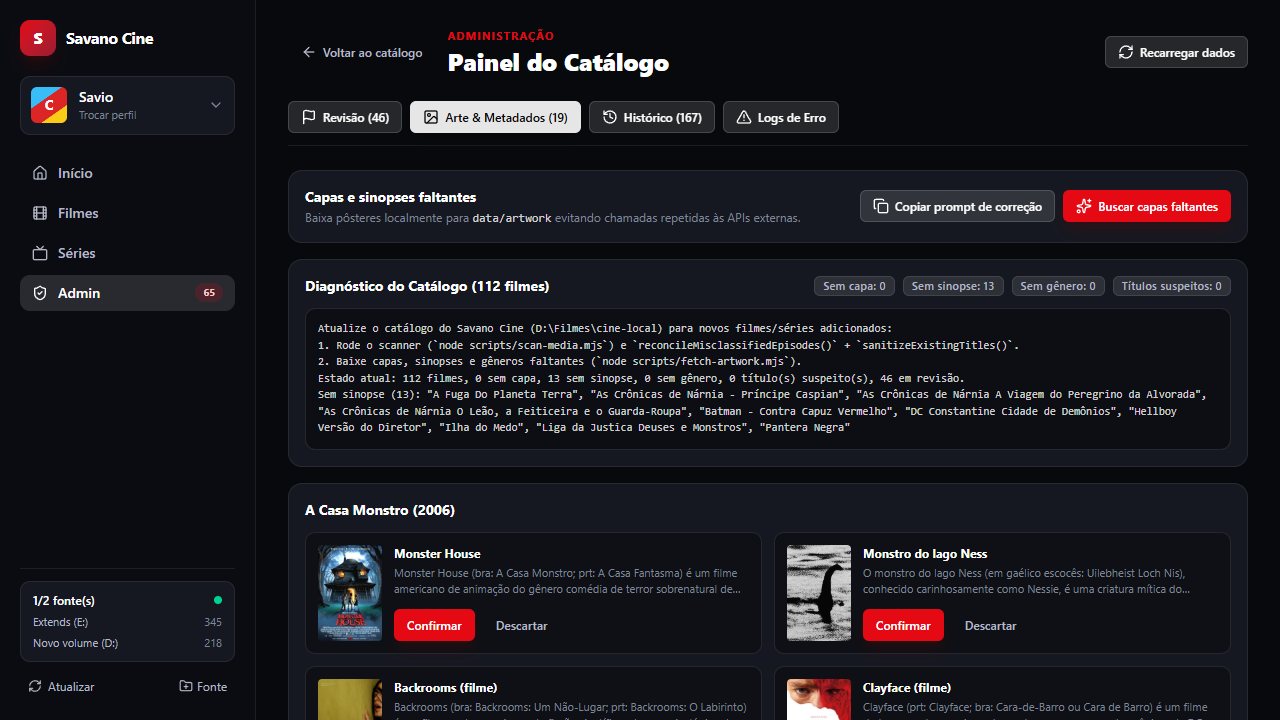
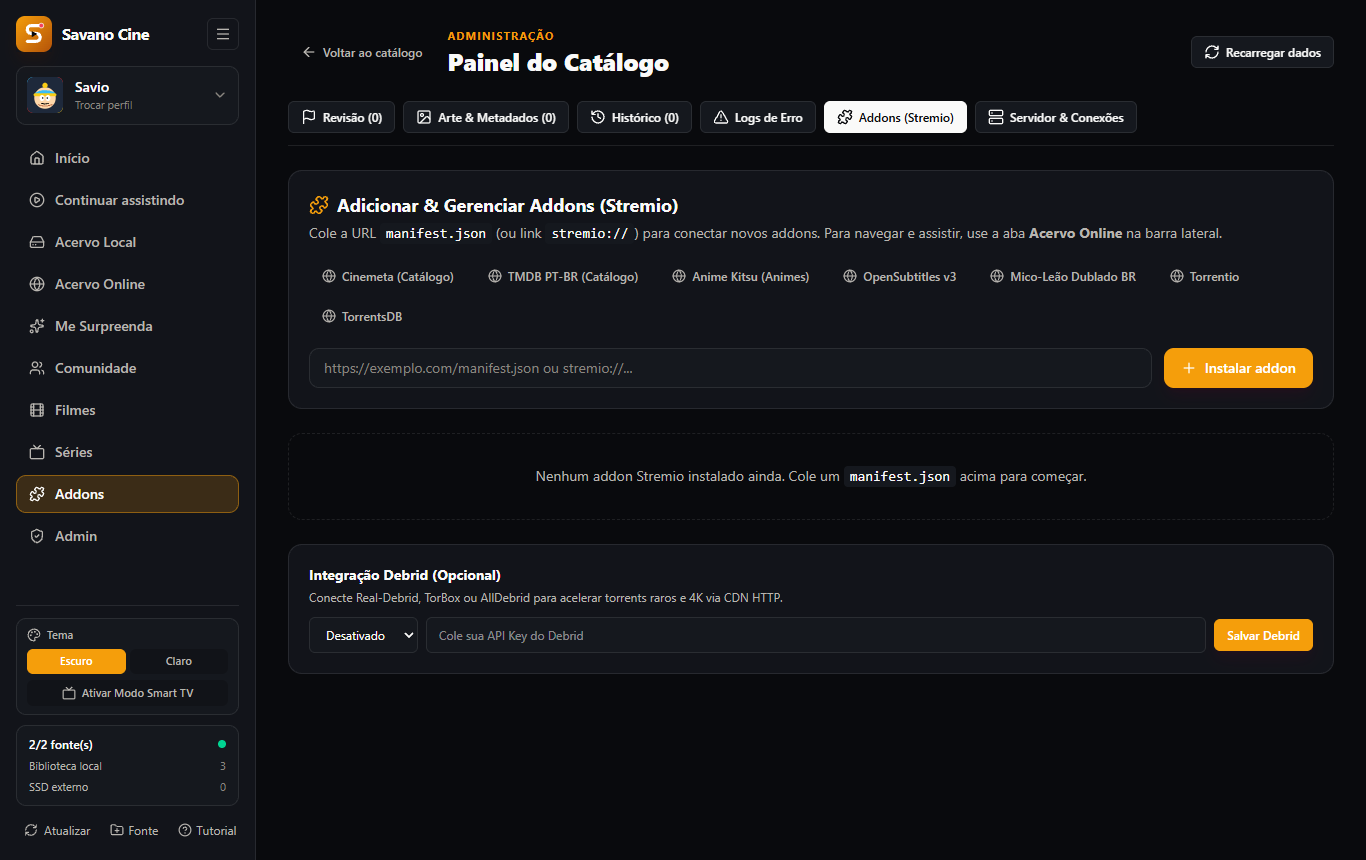
docs: revamp README with features showcase and updated screenshots

diff --git a/README.md b/README.md
@@ -1,15 +1,55 @@
-# Savano Cine (`cine-local`)
+# 🎬 Savano Cine
 
-Media center local + streaming via addons Stremio, com perfis isolados, player customizado (HLS, transcodificação FFmpeg, legendas agrupadas por idioma, download offline), console administrativo e túnel público opcional.
+> **Seu media center pessoal + streaming via addons Stremio**, com interface inspirada em cinema (*Noir Âmbar*), perfis independentes, player avançado com dual-subtitle, controle remoto pelo celular e zero dependência de nuvem paga.
 
-## Requisitos
-- **Node.js 22+** (usa `node:sqlite` nativo para o banco `data/catalog.db`)
+![Tela inicial do Savano Cine](docs/media/home.png)
+
+---
+
+## ✨ Principais Recursos
+
+- **Acervo Local + Online Unificado**: navegue pelos seus filmes/séries em HDs locais (inclusive unidades removíveis identificadas por volume) lado a lado com catálogos de **addons Stremio** (Cinemeta, TMDB, Anime Kitsu, Torrentio, FenixFlix, etc.).
+- **Streaming Otimizado & Auto-Fallback**:
+  - Motor WebTorrent sob demanda com isolamento de peças, prioridade para *moov atom* em MP4, pré-aquecimento (`torrent-prepare`), proxy HTTP/HLS com suporte a `proxyHeaders` e fallback automático para transcode FFmpeg.
+  - Seleção inteligente da **Melhor Fonte** em 1 clique + troca automática caso um torrent fique sem peers.
+- **Player Cinematográfico Completo**:
+  - **2ª Legenda (Estudo de Idioma)** simultânea com layout e cor personalizáveis, busca integrada nos addons, sincronia (`±0.5s`) e fundo ajustável.
+  - **Modo Noite** (compressor dinâmico), **Boost de Volume até 300%**, **Auto-Pular Abertura (+85s)**, **Miniplayer**, **Watch Party** (assistir junto via SSE) e **Controle Remoto pelo Celular** via QR Code na rede Wi-Fi.
+- **Descoberta Divertida (*Me Surpreenda*)**:
+  - Três modos interativos para acabar com a indecisão: **🎰 Roleta**, **🔥 Swipe (Curti/Pular)** e **🏆 Batalha 1v1 (Cine-Cup)**, com filtros de clima, busca temática PT-BR/EN e ideias rápidas.
+- **Perfis, Comunidade & Smart TV**:
+  - Perfis isolados (`Admin` / `Convidado` / `Infantil`), **Espaço Social** com notas/avaliações e indicações entre perfis, **Modo Smart TV (10-foot UI)** e **Tutorial Interativo** para novos usuários.
+
+---
+
+## 📸 Visão Geral das Telas
+
+### Acervo Online (Addons Stremio + TV ao Vivo separada)
+![Acervo Online](docs/media/online.png)
+
+### Me Surpreenda (Roleta, Swipe & Batalha 1v1)
+![Me Surpreenda](docs/media/discover.png)
+
+### Espaço Social & Avaliações
+![Comunidade](docs/media/social.png)
+
+### Painel Admin & Gerenciador de Addons
+![Admin e Addons](docs/media/admin.png)
+
+---
+
+## 🛠 Requisitos
+
+- **Node.js 22+** (usa `node:sqlite` nativo para `data/catalog.db`)
 - **Opcional**:
-  - `ffmpeg` / `ffprobe` (transcodificação de MKV/AVI/RMVB e extração de legendas embutidas)
-  - `cloudflared` (túnel HTTPS público para celular/4G)
-  - `qBittorrent` com WebUI na porta `8080` (se ativo, downloads torrent são encaminhados para ele; caso contrário usa WebTorrent integrado em `<fonte>/Downloads`)
+  - `ffmpeg` / `ffprobe` (transcodificação de MKV/AVI/HEVC e extração de legendas embutidas)
+  - `cloudflared` (túnel HTTPS público para acesso externo/4G)
+  - `qBittorrent` com WebUI na porta `8080` (se ativo, downloads torrent são encaminhados para ele; caso contrário usa WebTorrent integrado)
 
-## Primeiro Uso (First-Run)
+---
+
+## 🚀 Primeiro Uso (First-Run)
+
 1. Instale as dependências:
    ```powershell
    npm install
@@ -21,12 +61,27 @@ Media center local + streaming via addons Stremio, com perfis isolados, player c
 3. **Perfis & Permissões**:
    - Na inicialização do banco, o perfil administrador padrão (`Admin`, `is_admin = 1`) é criado automaticamente.
    - Perfis secundários (`is_admin = 0`) podem assistir, gerenciar **Minha Lista**, avaliar e buscar legendas/streams, mas **não** têm acesso ao painel Admin (`/?tab=server`, addons, fontes, logs ou edição de catálogo) e recebem `403` nas rotas protegidas da API.
-   - Opcionalmente defina `CINE_ACCESS_PIN` no ambiente antes de iniciar a API para exigir PIN global na entrada.
+   - Defina `CINE_ACCESS_PIN` no ambiente antes de iniciar a API para customizar o PIN global de entrada (padrão local: `4321`).
 
-## Scripts de Desenvolvimento & Testes
-- `npm run lint`: validação estática com `oxlint` (0 warnings / 0 errors)
-- `npm run test:unit`: testes unitários (`node --test tests/unit/*.test.mjs`)
-- `npm run build`: verificação TypeScript (`tsc -b`) + bundle `vite build`
-- `npm run smoke`: 15 checagens rápidas da API local
-- `npm run verify`: 13 testes de integração ponta a ponta na API
-- `npx playwright test`: suíte E2E no navegador (exige preview/web ativo na porta `4173`)
+---
+
+## 🧪 Scripts de Desenvolvimento & Testes
+
+| Comando | Descrição |
+| --- | --- |
+| `npm run lint` | Validação estática com `oxlint` (`0` warnings / `0` errors) |
+| `npm run test:unit` | Testes unitários (`node --test tests/unit/*.test.mjs`) |
+| `npm run build` | Verificação TypeScript (`tsc -b`) + bundle `vite build` |
+| `npm run smoke` | 15 checagens rápidas da API local |
+| `npm run verify` | 13 testes de integração ponta a ponta na API |
+| `npx playwright test` | 18 testes E2E no navegador (exige web ativo em `4173`) |
+| `npm run test:e2e:isolated` | Roda a suíte E2E contra uma cópia temporária do banco (`CINE_DB_PATH`) |
+
+---
+
+## 📚 Documentação Adicional
+
+- [Arquitetura do Projeto](docs/architecture.md)
+- [Guia de Operação](docs/operacao.md)
+- [Plano de Otimização de Streaming](docs/streaming-optimization-plan.md)
+- [Kanban](docs/kanban.md) e [Backlog Exploratório](docs/backlog-exploratorio.md)
